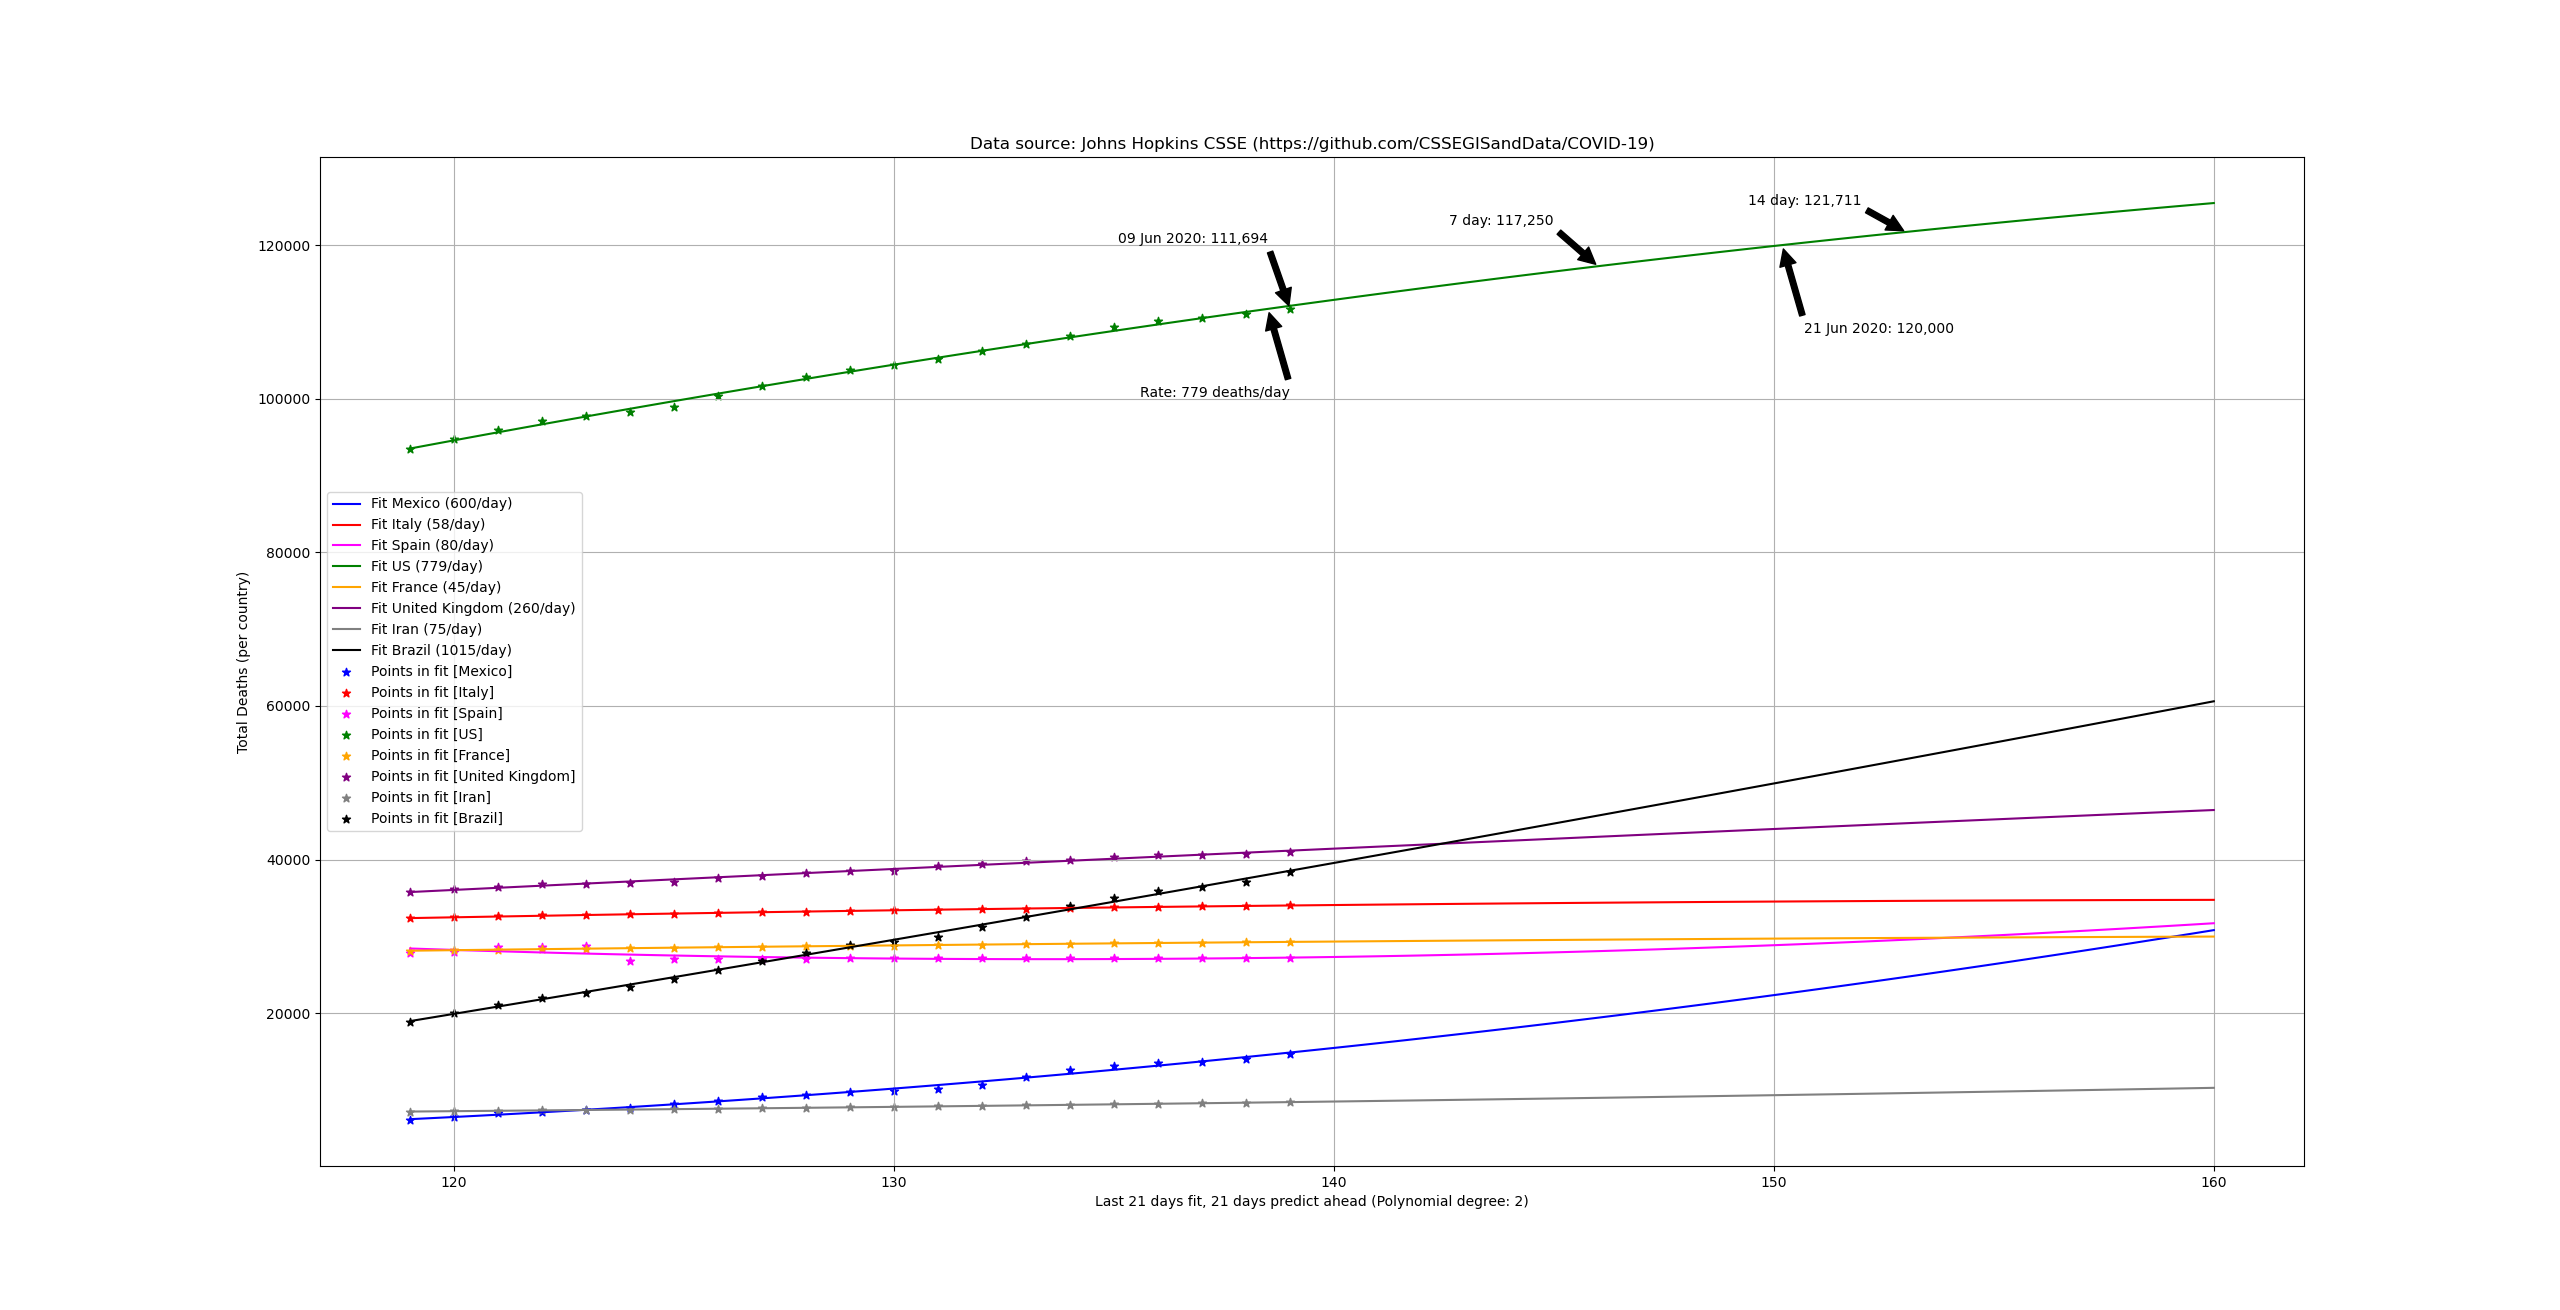
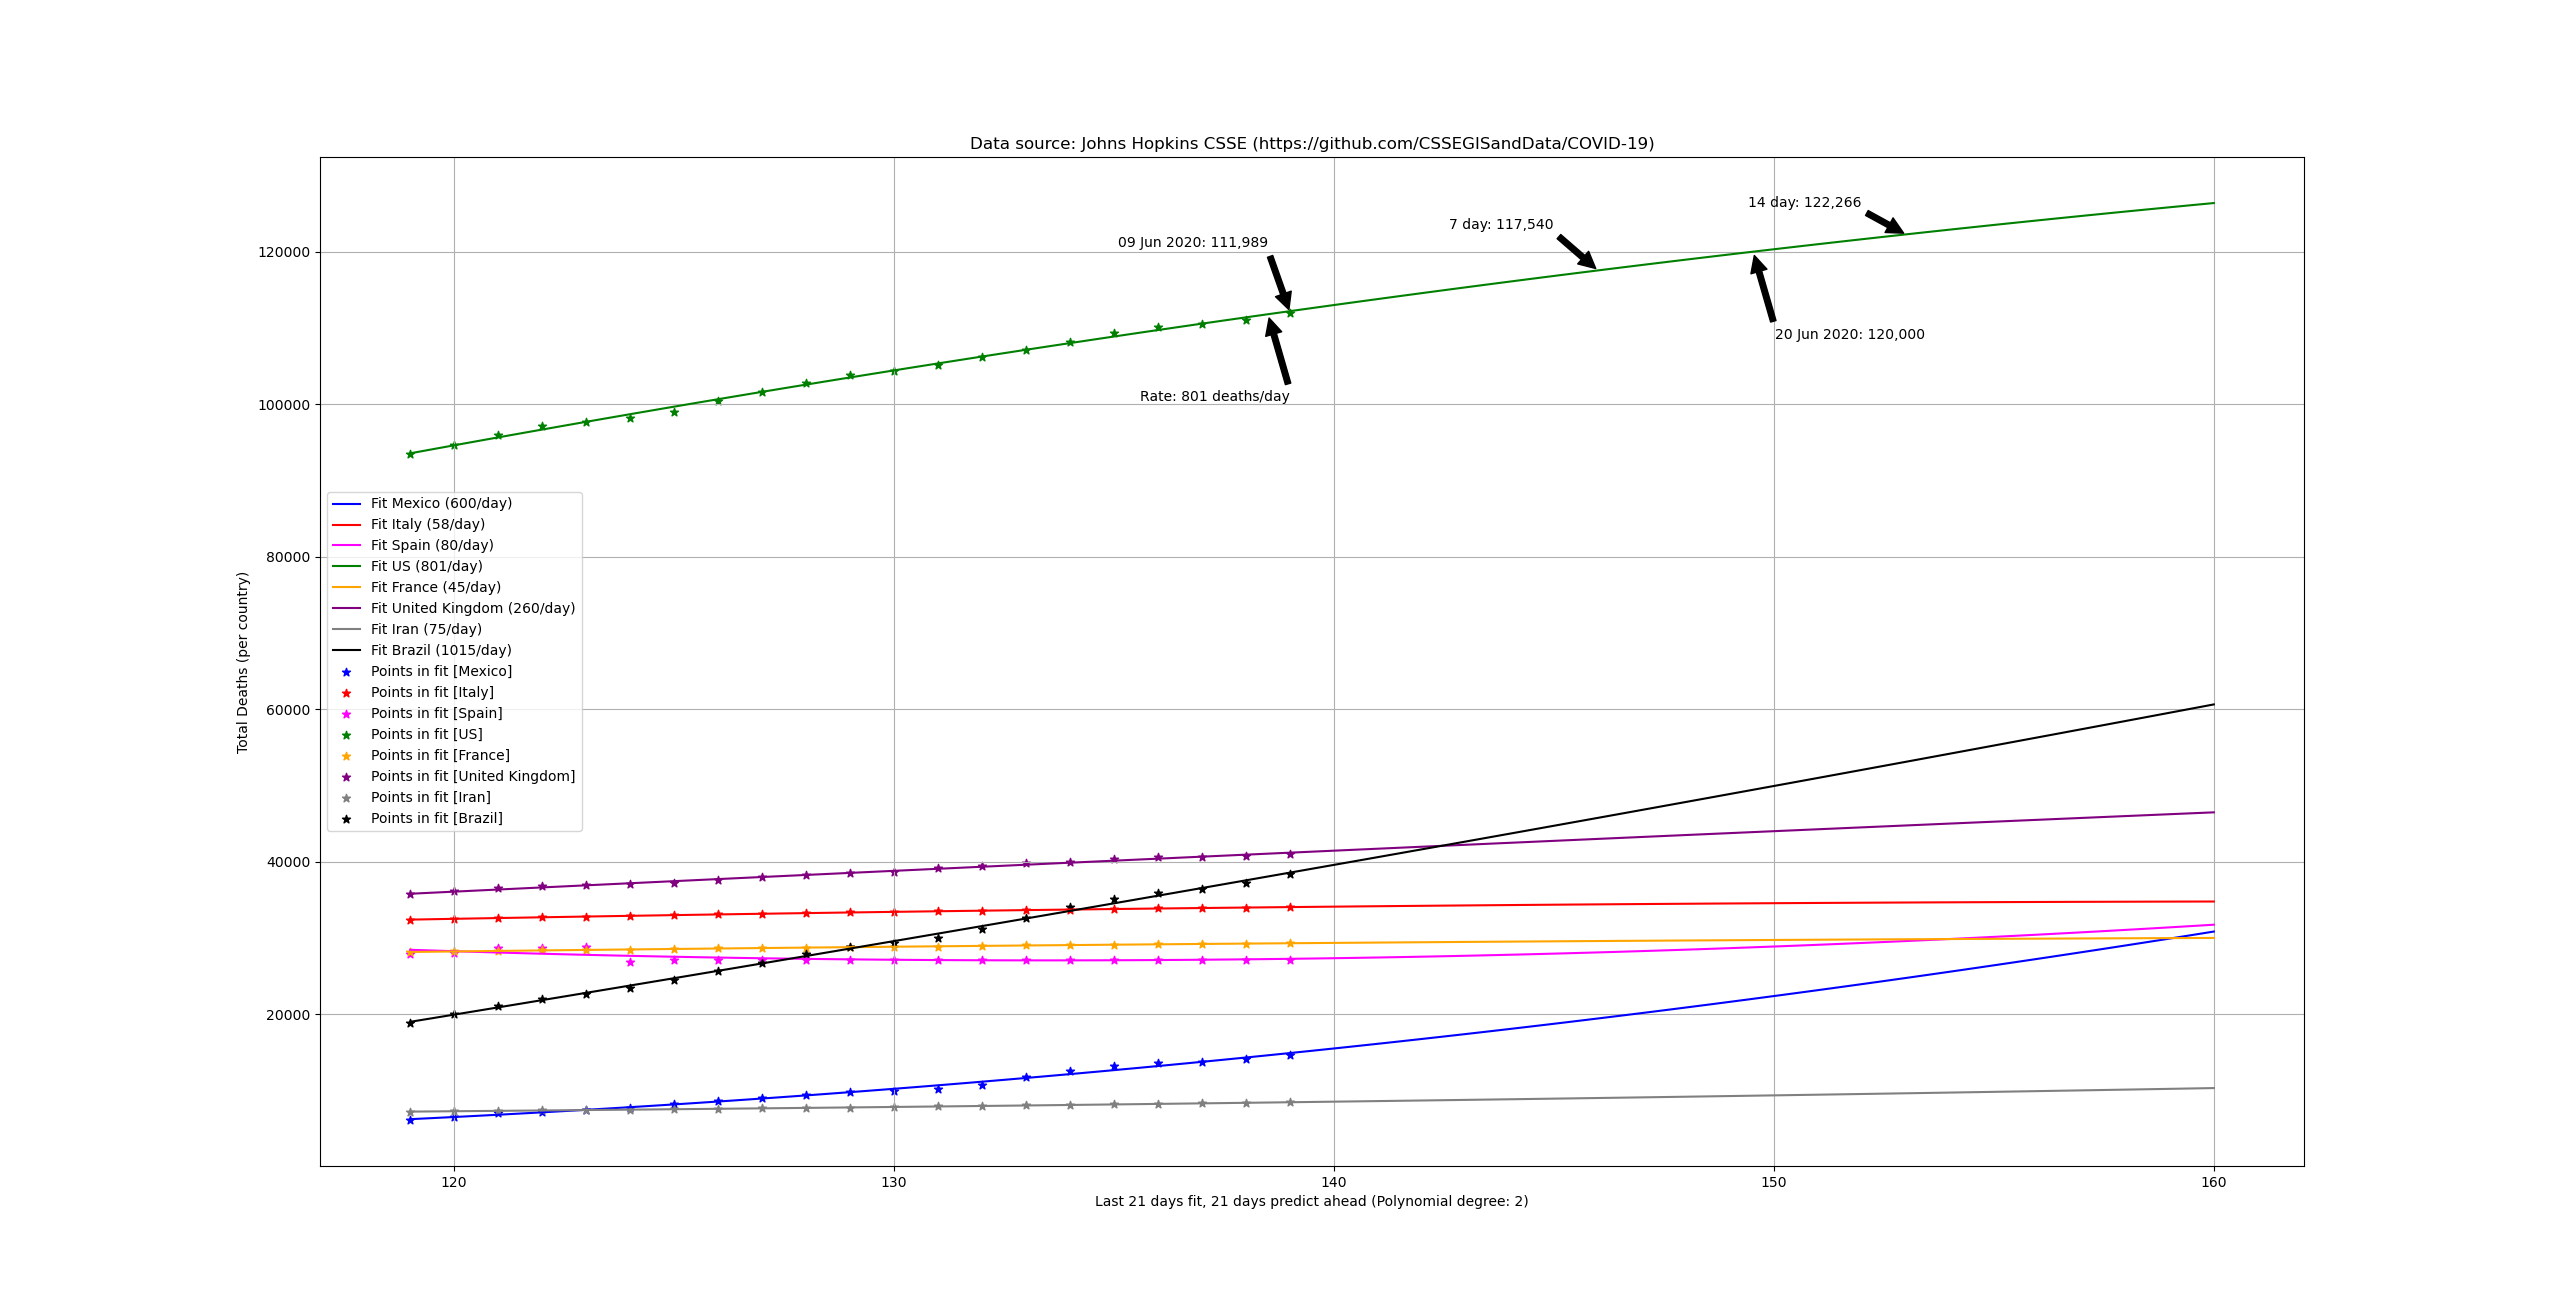
Revised USA numbers upstream.

diff --git a/README.md b/README.md
@@ -7,7 +7,7 @@ plots: https://github.com/clolsonus/covid-19/blob/master/FAQ.md
 
 Brazil is still running over 1000 deaths per day and is on pace to hit
 the 40k mark in 2 days, overtakes the UK for 2nd place overall on
-about June 13.  USA still on pace to hit 120k around June 21.
+about June 13.  USA on pace to hit 120k around June 20.
 
 ![poly](figures/20200609.png?raw=true "9 June, 2020")
 
